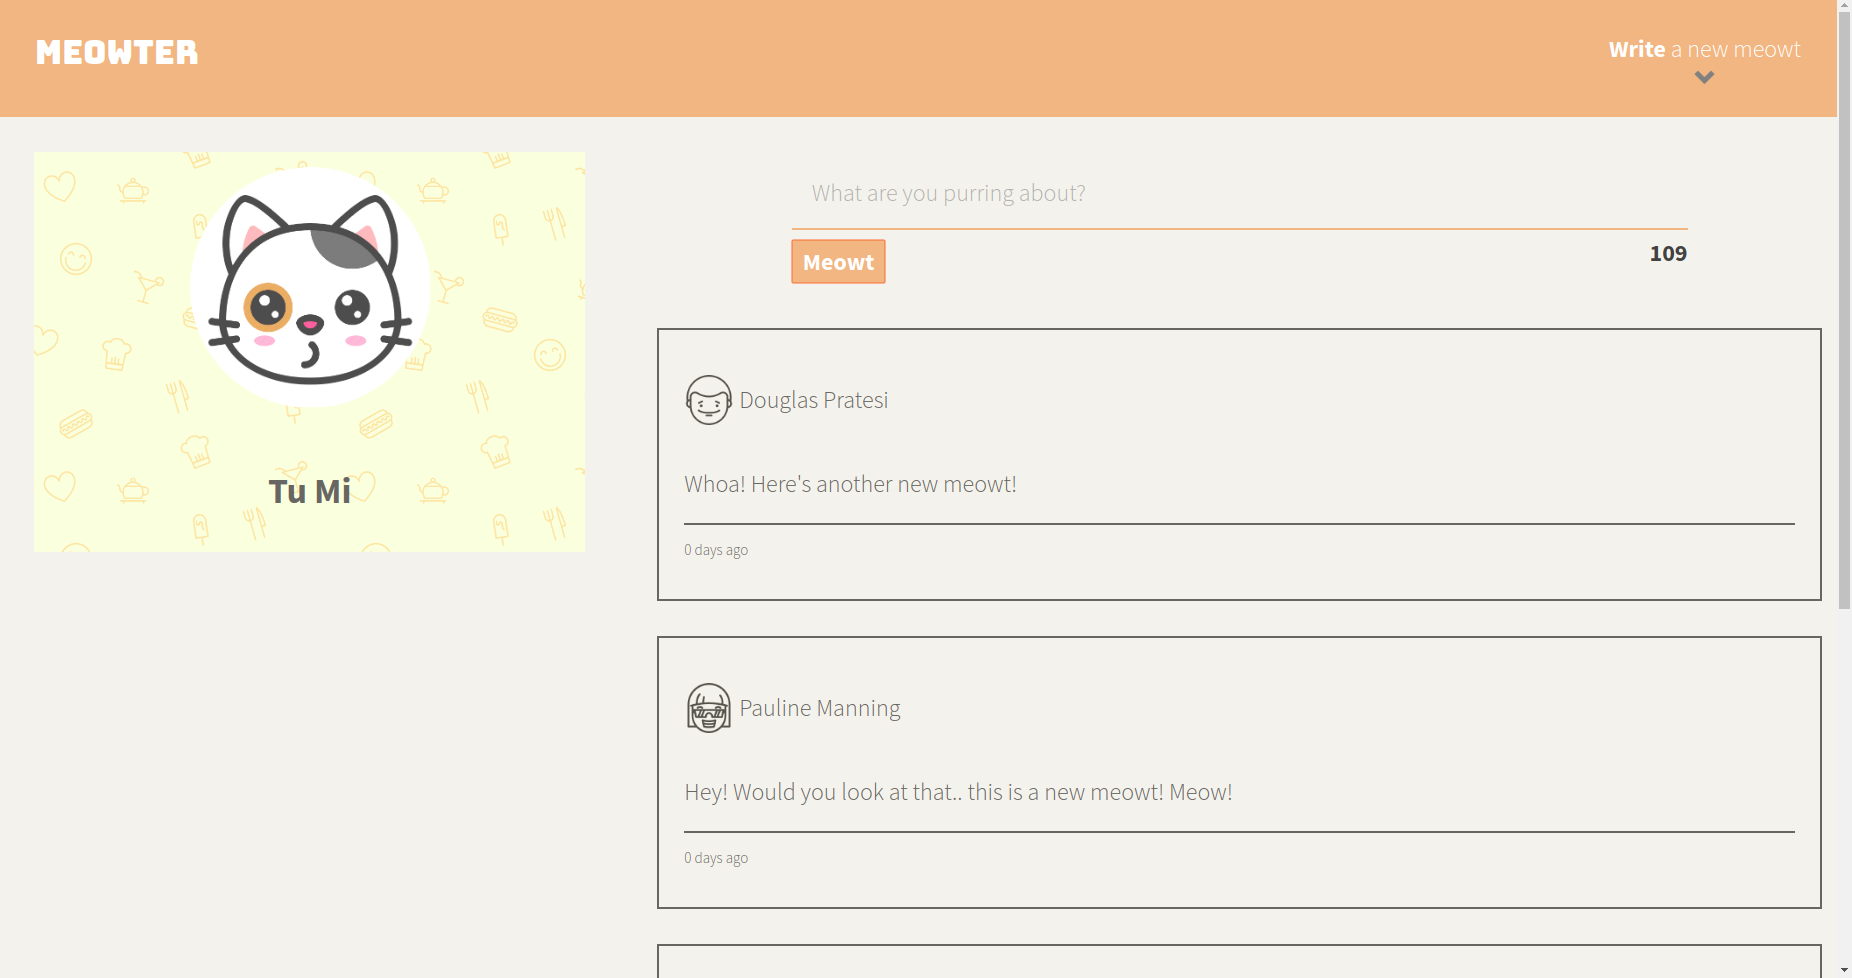
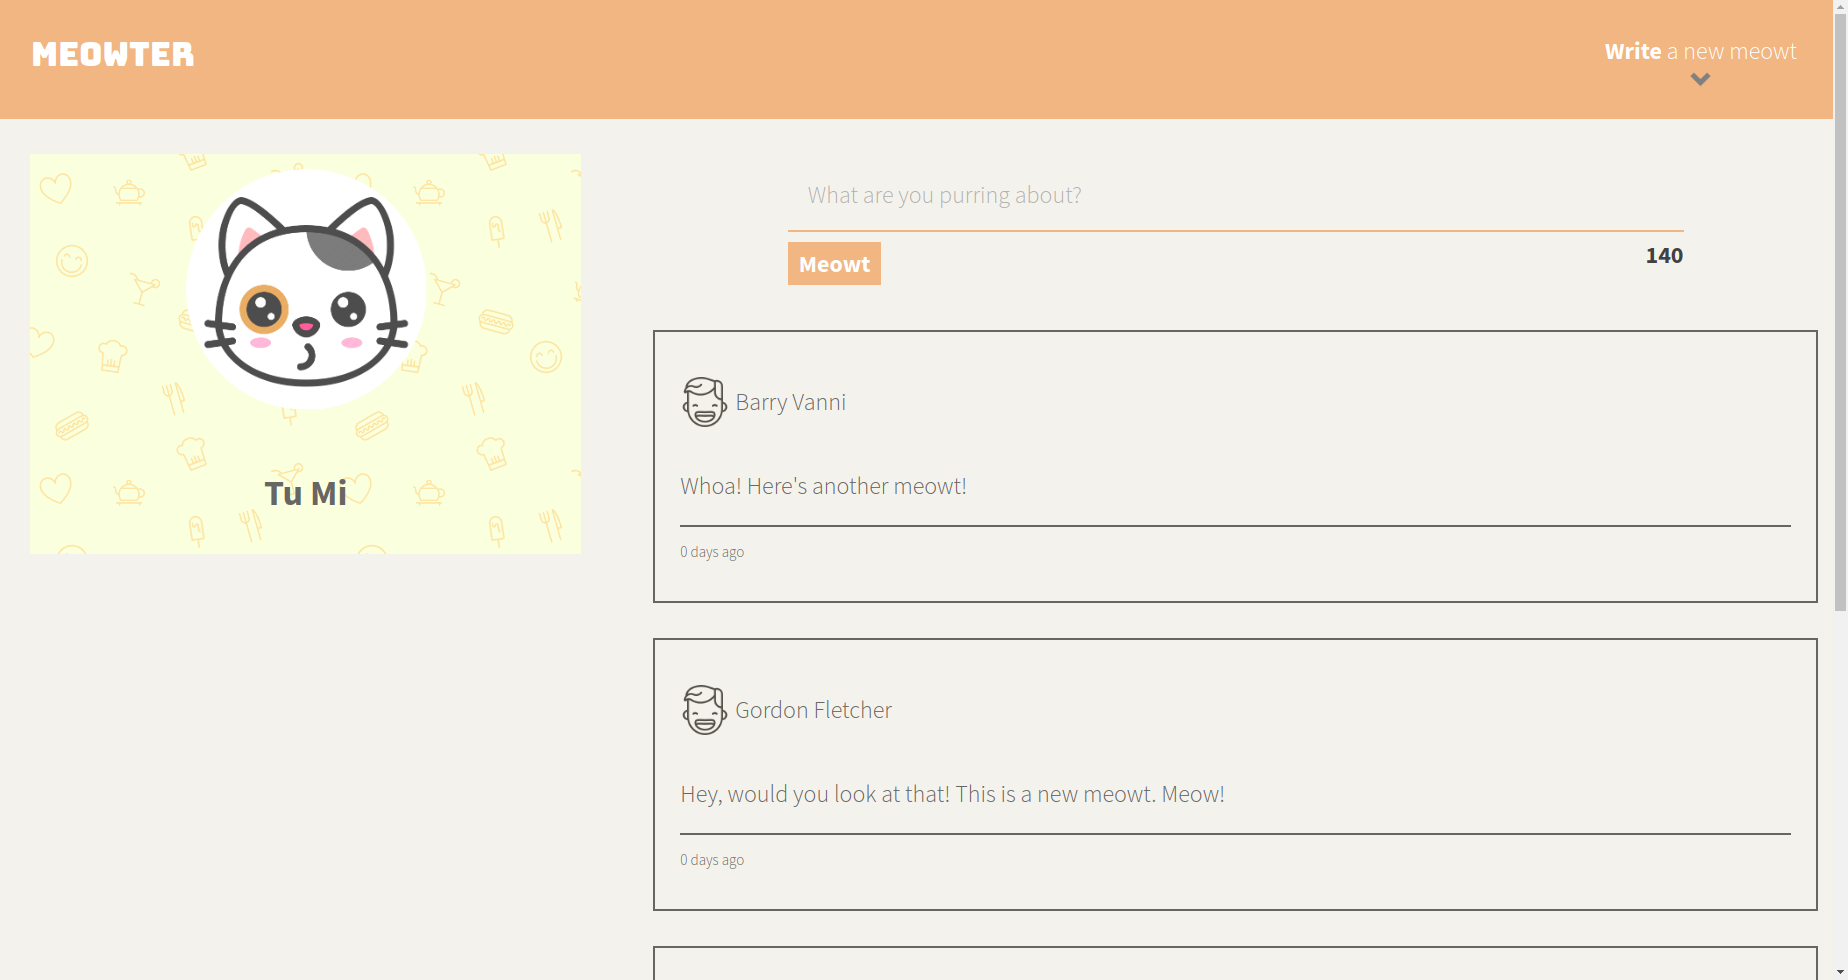
debug counter and update photos

diff --git a/public/scripts/app.js b/public/scripts/app.js
@@ -143,6 +143,7 @@ $( document ).ready(function() {
           loadLastTweet("GET", "/tweets/", renderTweets);
           tweetForm[0].reset();
           clearError();
+          $("span.counter").text(140);
         })
        .fail(error => {
         if (!$(".tweet-box").val()) {

diff --git a/README.md b/README.md
@@ -2,6 +2,8 @@
 
 Tweeter is a simple, single-page Twitter clone.
 
+Introducing a new and superior theme of cats! Meow!
+
 This repository is the starter code for the project: Students will fork and clone this repository, then build upon it to practice their HTML, CSS, JS, jQuery and AJAX front-end skills, and their Node, Express and MongoDB back-end skills.
 
 ## Screenshots
